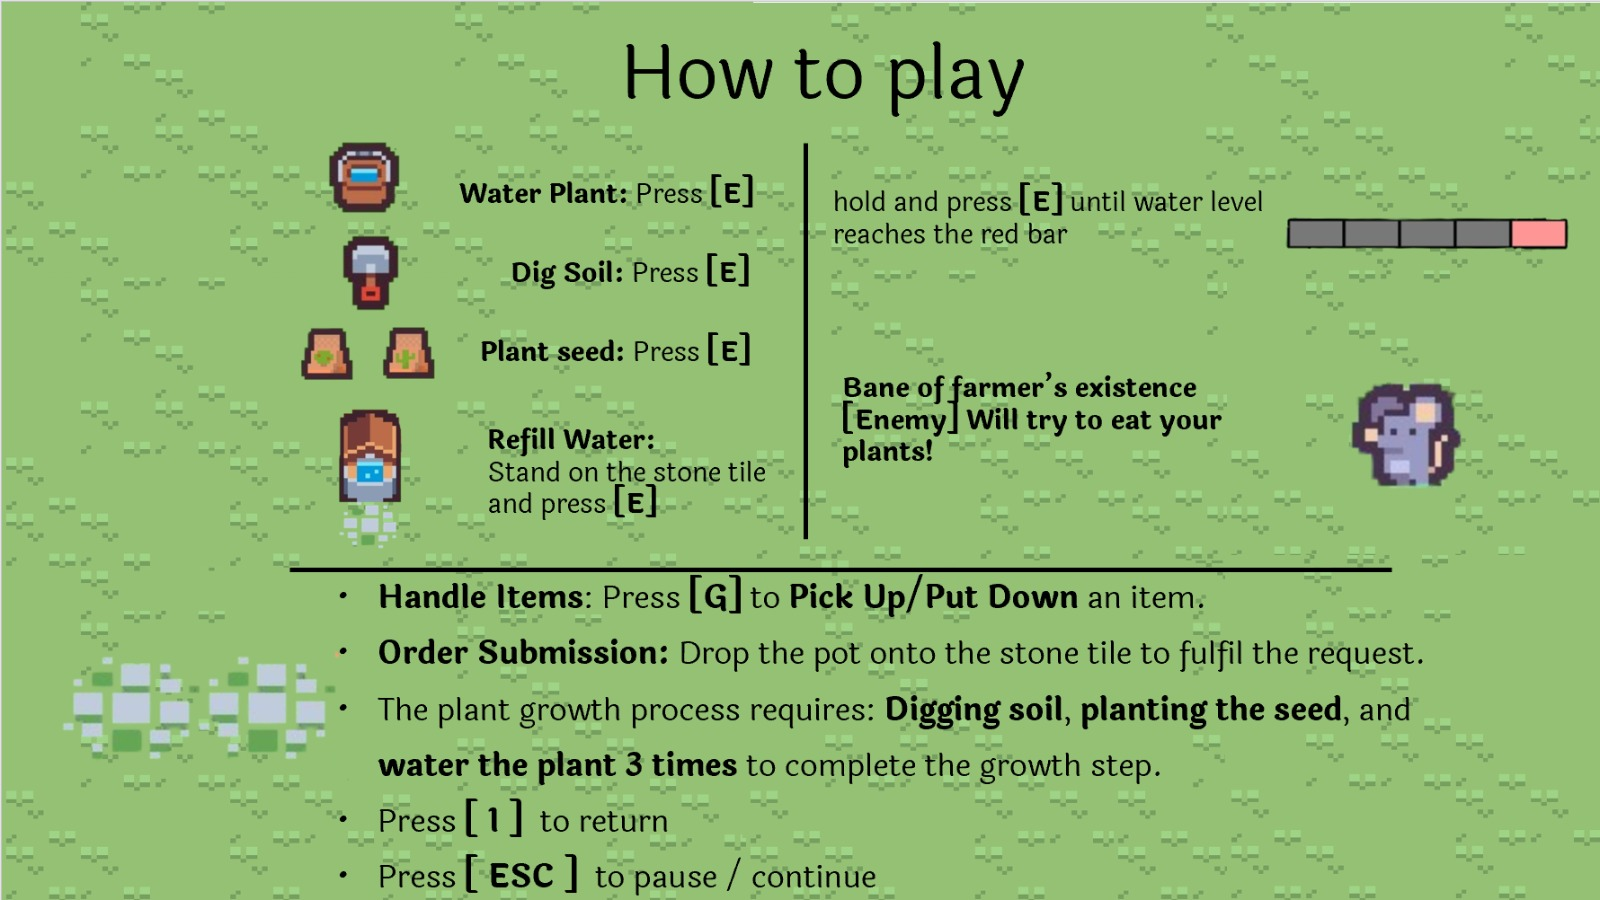
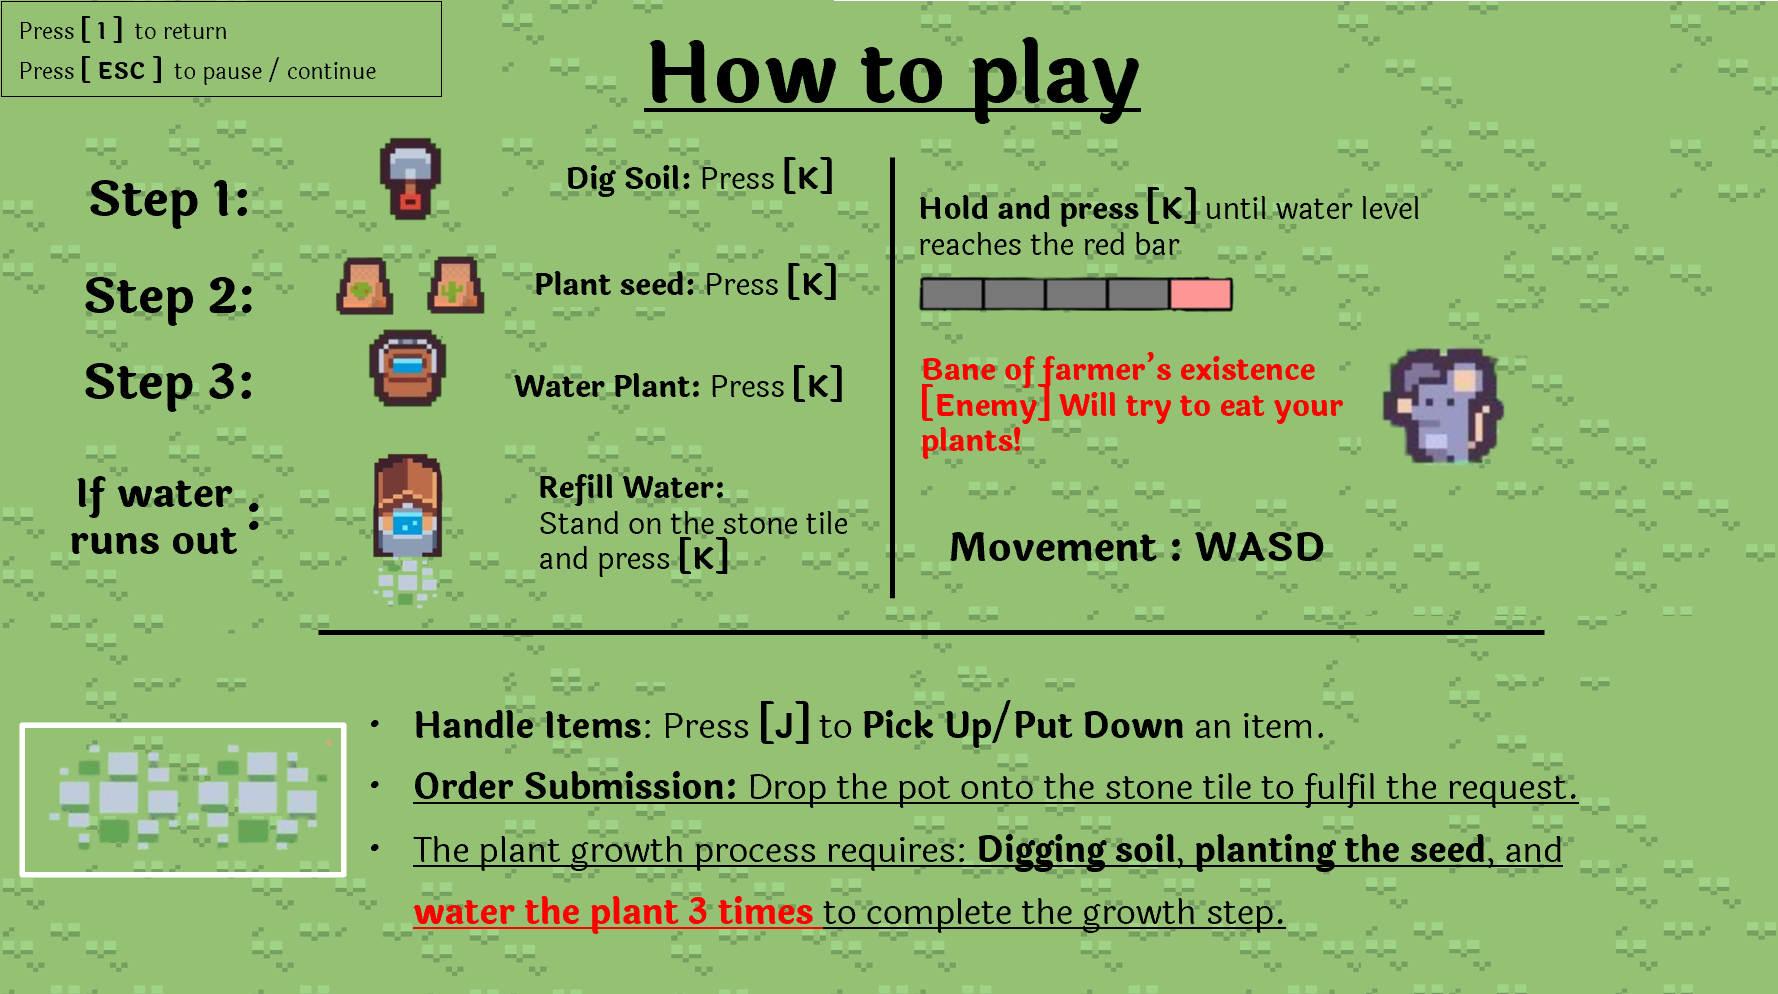
update game

diff --git a/Final_Proj/Final_Proj/game.c b/Final_Proj/Final_Proj/game.c
@@ -53,7 +53,7 @@ CP_Image pot_spritesheet = NULL;
 
 
 //--------------------- Timer ---------------------//
-#define STAGE_TIMER 300.0f
+#define STAGE_TIMER 480.0f
 float stage_timer;
 CP_Image timer_bg_blue = NULL, timer_bg_red = NULL;
 float timer_pos_x, timer_pos_y;
@@ -238,7 +238,7 @@ void Game_Update(void)
 	//--------------------- Hold Tool ---------------------//
 	//If player is not holding anything
 	if (!held_tool && !held_pot) {
-		if (CP_Input_KeyReleased(KEY_Q)) {
+		if (CP_Input_KeyReleased(KEY_J)) {
 			//Picks up the first tool that is in range
 			for (int i = 0; i < L1_TOOL_SIZE; ++i) {
 				if (level1_tools[i].in_range) {
@@ -286,9 +286,9 @@ void Game_Update(void)
 		if (showControls) {
 			// Draw the controls panel only
 			CP_Settings_ImageMode(CP_POSITION_CENTER);
-			float panelWidth = 1650;
+			float panelWidth = 1600;
 			float panelHeight = 900;
-			float panelX = (float)CP_System_GetWindowWidth() / 2 - 25;
+			float panelX = (float)CP_System_GetWindowWidth() / 2 ;
 			float panelY = (float)CP_System_GetWindowHeight() / 2;
 
 			CP_Image_Draw(guide, panelX, panelY, panelWidth, panelHeight, 255);
@@ -549,13 +549,13 @@ void handle_tool_interaction(Tool* tool) {
 
 		//reset stroke color
 		CP_Settings_Stroke(CP_Color_Create(0, 0, 0, 255));
-		if (CP_Input_KeyReleased(KEY_Q)) {
+		if (CP_Input_KeyReleased(KEY_J)) {
 			tool->position.x = tool->initial_pos.x;
 			tool->position.y = tool->initial_pos.y;
 			held_tool = NULL;
 			return;
 		}
-		show_tooltip("Press 'Q' to Place Down");
+		show_tooltip("Press 'J' to Place Down");
 	}
 	else tool->in_range = false;
 
@@ -586,7 +586,7 @@ void handle_tool_interaction(Tool* tool) {
 						CP_Settings_StrokeWeight(3.0f);
 
 						// HANDLE WATERING LOGIC
-						if (CP_Input_KeyDown(KEY_E)) {
+						if (CP_Input_KeyDown(KEY_K)) {
 							// Increase fill while holding E
 							level1_pots[i].plant.fillProgress += fillSpeed * dt;
 							if (level1_pots[i].plant.fillProgress > 1.0f)
@@ -640,7 +640,7 @@ void handle_tool_interaction(Tool* tool) {
 						}
 
 						// LOCK POT WHEN E IS RELEASED OR USES RUN OUT
-						if (CP_Input_KeyReleased(KEY_E) || held_tool->uses <= 0) {
+						if (CP_Input_KeyReleased(KEY_K) || held_tool->uses <= 0) {
 							level1_pots[i].plant.wateredOnce = true;
 
 							// Grow plant only if fill is within the target segment
@@ -660,48 +660,50 @@ void handle_tool_interaction(Tool* tool) {
 					}
 				}
 				//Controls tool tip at btm right
-				show_tooltip("Press & Hold 'E' to Water");
+				CP_Font_Set(myFont);
+				show_tooltip("Press & Hold 'K' to Water");
 
 				break;
-
+				
+				
 			case SOIL:
 				if (level1_pots[i].plant.seed_type == EMPTY) {
-					if (CP_Input_KeyReleased(KEY_E)) {
+					if (CP_Input_KeyReleased(KEY_K)) {
 						level1_pots[i].filled = true;
 					}
-					show_tooltip("Press 'E' to Dig Soil");
+					show_tooltip("Press 'K' to Dig Soil");
 				}
 				if (level1_pots[i].plant.seed_type != EMPTY) {
-					if (CP_Input_KeyReleased(KEY_E)) {
+					if (CP_Input_KeyReleased(KEY_K)) {
 						kill_plant(&level1_pots[i]);
 					}
-					show_tooltip("Press 'E' to Remove Plant");
+					show_tooltip("Press 'K' to Remove Plant");
 				}
 				break;
 			case SEED_1:
 				if (level1_pots[i].filled && level1_pots[i].plant.seed_type == EMPTY) {
-					if (CP_Input_KeyReleased(KEY_E)) {
+					if (CP_Input_KeyReleased(KEY_K)) {
 						initialize_plant(&level1_pots[i].plant, BERRY_BUSH);
 					}
-					show_tooltip("Press 'E' to Plant Berry Bush");
+					show_tooltip("Press 'K' to Plant Berry Bush");
 				}
 				else { show_tooltip("Pot must be empty before planting seed"); }
 				break;
 			case SEED_2:
 				if (level1_pots[i].filled && level1_pots[i].plant.seed_type == EMPTY) {
-					if (CP_Input_KeyReleased(KEY_E)) {
+					if (CP_Input_KeyReleased(KEY_K)) {
 						initialize_plant(&level1_pots[i].plant, CACTUS);
 					}
-					show_tooltip("Press 'E' to Plant Cactus");
+					show_tooltip("Press 'K' to Plant Cactus");
 				}
 				else { show_tooltip("Pot must be empty before planting seed"); }
 				break;
 			case SEED_3:
 				if (level1_pots[i].filled && level1_pots[i].plant.seed_type == EMPTY){
-					if (CP_Input_KeyReleased(KEY_E)) {
+					if (CP_Input_KeyReleased(KEY_K)) {
 						initialize_plant(&level1_pots[i].plant, ORANGE_BUSH);
 					}
-					show_tooltip("Press 'E' to Plant Orange Bush");
+					show_tooltip("Press 'K' to Plant Orange Bush");
 				}
 				else { show_tooltip("Pot must be empty before planting seed"); }
 				break;
@@ -718,11 +720,11 @@ void handle_tool_interaction(Tool* tool) {
 			CP_System_GetWindowWidth() / TILE_COLS, CP_System_GetWindowHeight() / TILE_ROWS,
 			player.position.x, player.position.y)) {
 
-		if (CP_Input_KeyTriggered(KEY_E)) {
+		if (CP_Input_KeyTriggered(KEY_K)) {
 			held_tool->uses = 3;
 			held_tool->tool_sprite = CP_Image_Load("Assets/tool_sprites/water_bucket_full.png");
 		}
-		show_tooltip("Press 'E' to Refill Bucket");
+		show_tooltip("Press 'K' to Refill Bucket");
 	}
 }
 
@@ -777,7 +779,7 @@ void handle_pot_interaction(Pot* pot) {
 					CP_System_GetWindowWidth() / TILE_COLS, CP_System_GetWindowHeight() / TILE_ROWS);
 
 				//place down pot if tile is placeable and not obstructed by other things
-				if (CP_Input_KeyReleased(KEY_Q)) {
+				if (CP_Input_KeyReleased(KEY_J)) {
 					tile->obstructed = true;
 					held_tool = NULL;
 					held_pot = NULL;
@@ -785,7 +787,7 @@ void handle_pot_interaction(Pot* pot) {
 					pot->position.y = tile->y;
 					pot->occupied_tile = tile;
 				}
-				show_tooltip("Press 'Q' to Place Down");
+				show_tooltip("Press 'J' to Place Down");
 			}
 		}
 	}

diff --git a/Final_Proj/Final_Proj/mainmenu.c b/Final_Proj/Final_Proj/mainmenu.c
@@ -120,8 +120,8 @@
 
             CP_Font_DrawText("Controls:", panelX, startY);
             CP_Font_DrawText("Move: [W,A,S,D]", panelX, startY + lineH);
-            CP_Font_DrawText("Interact: [E]", panelX, startY + 2 * lineH);
-            CP_Font_DrawText("Pick up/Drop Tool: [P]", panelX, startY + 3 * lineH);
+            CP_Font_DrawText("Interact: [K]", panelX, startY + 2 * lineH);
+            CP_Font_DrawText("Pick up/Drop Tool: [J]", panelX, startY + 3 * lineH);
             CP_Font_DrawText("Pause/Resume: [ESCAPE]", panelX, startY + 4 * lineH);
             CP_Font_DrawText("Back: [1]", panelX, startY + 5 * lineH);
 

diff --git a/Final_Proj/Final_Proj/utils.c b/Final_Proj/Final_Proj/utils.c
@@ -84,8 +84,11 @@ int IsWithinRect(float rect_x, float rect_y, float rect_w, float rect_h, float p
 }
 
 void show_tooltip(const char* text) {
-	CP_Settings_TextSize(28.0f);
+	CP_Font font;
+	font = CP_Font_Load("Assets/Exo2-Regular.ttf");
+	CP_Font_Set(font);
+	CP_Settings_TextSize(50.0f);
 	CP_Settings_TextAlignment(CP_TEXT_ALIGN_H_RIGHT, CP_TEXT_ALIGN_V_TOP);
-	CP_Settings_Fill(CP_Color_Create(255, 255, 0, 255));
+	CP_Settings_Fill(CP_Color_Create(255, 0, 0, 255));
 	CP_Font_DrawText(text, 1550.0f, 830.0f);
 }

diff --git a/Final_Proj/Final_Proj/main.c b/Final_Proj/Final_Proj/main.c
@@ -19,8 +19,8 @@
 // CP_Engine_Run() is the core function that starts the simulation
 int main(void)
 {
-	//CP_Engine_SetNextGameState(Opening_Init, Opening_Update, Opening_Exit);
-	CP_Engine_SetNextGameState(Main_Menu_Init, Main_Menu_Update, Main_Menu_Exit);
+	CP_Engine_SetNextGameState(Opening_Init, Opening_Update, Opening_Exit);
+	//CP_Engine_SetNextGameState(Main_Menu_Init, Main_Menu_Update, Main_Menu_Exit);
 	CP_System_SetWindowSize(1600, 900);
 	CP_Engine_Run(0);
 	return 0;

diff --git a/Final_Proj/Final_Proj/plants.h b/Final_Proj/Final_Proj/plants.h
@@ -7,7 +7,7 @@
 
 #define POT_WIDTH 19
 #define POT_HEIGHT 19
-#define POT_SCALE 3.4
+#define POT_SCALE 4.5
 #define PLANT_OFFSETY -26 //makes plant appear on top of pot
 #define PLANT_OFFSETX 0
 #define PLANT_WIDTH 19
